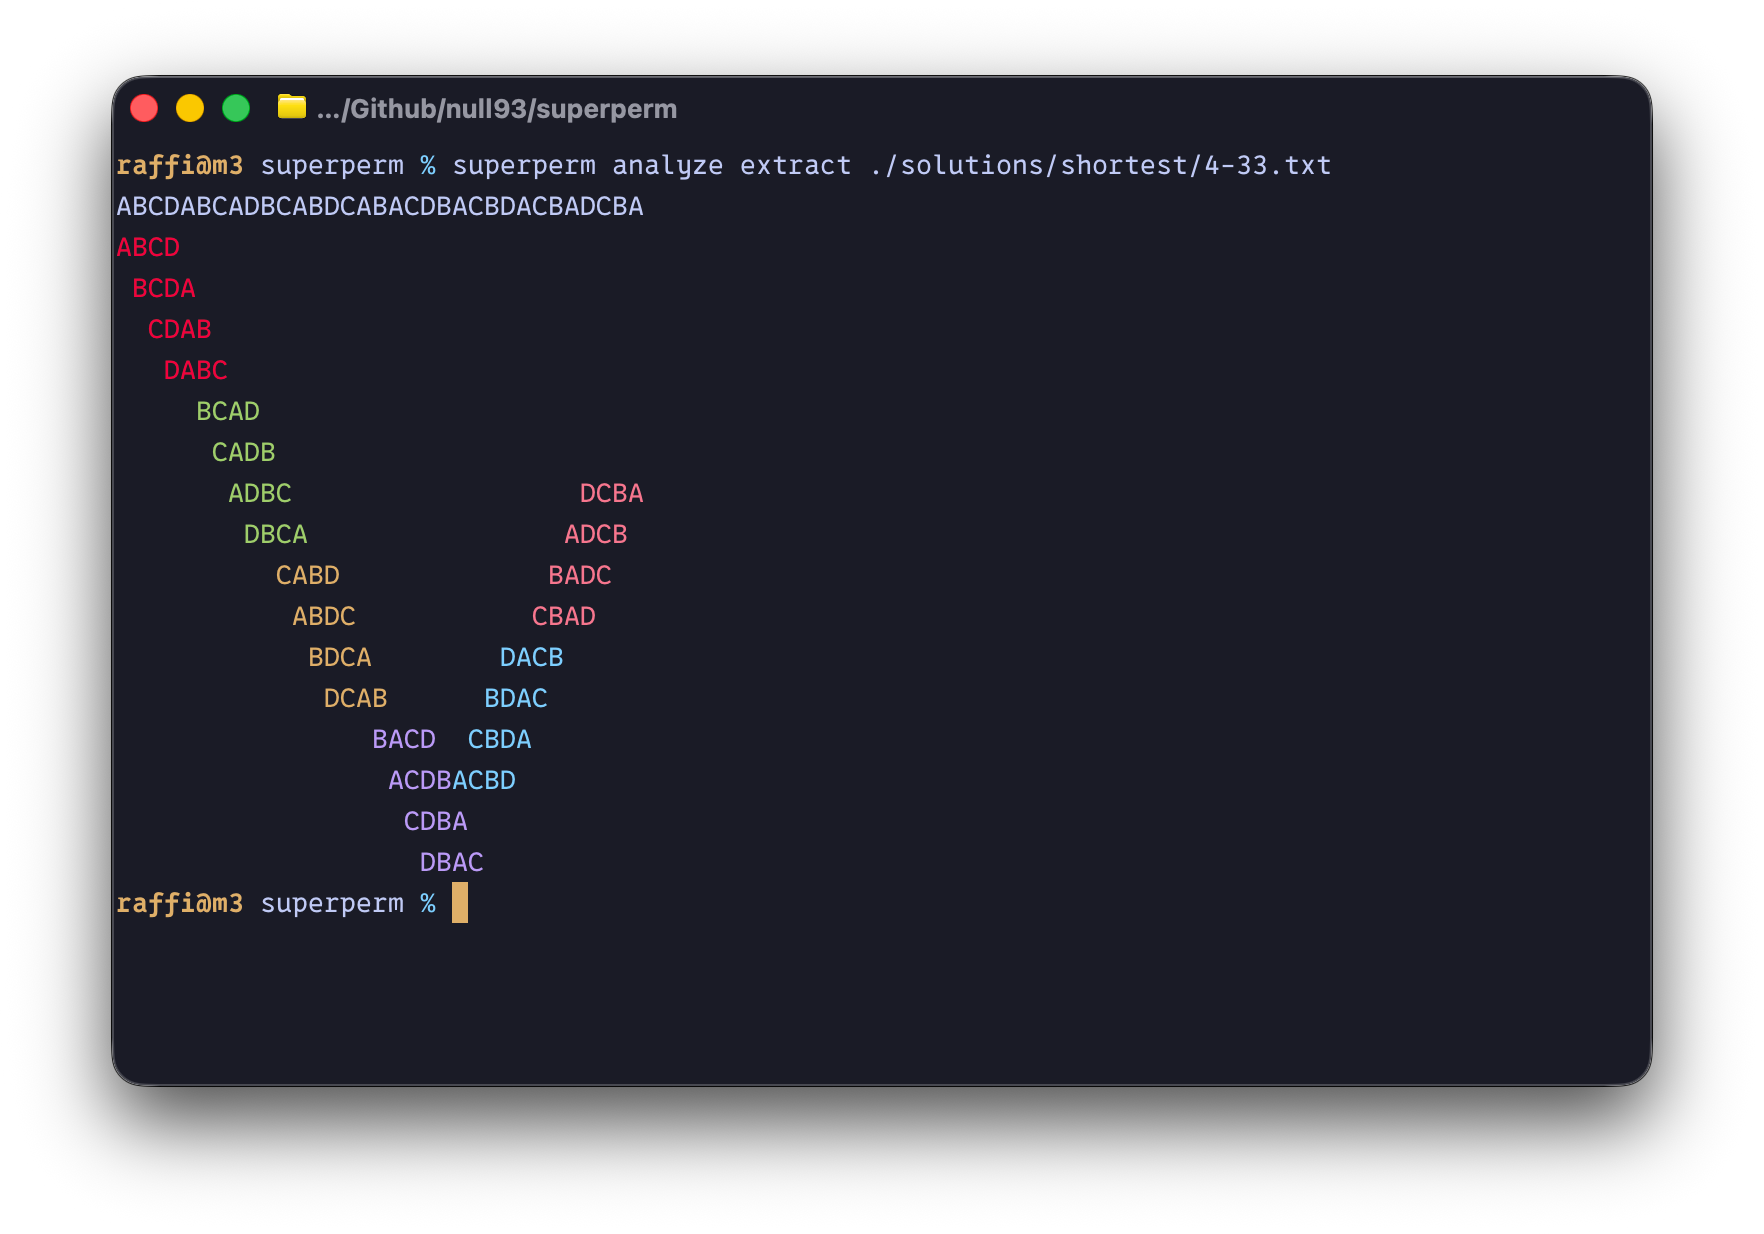
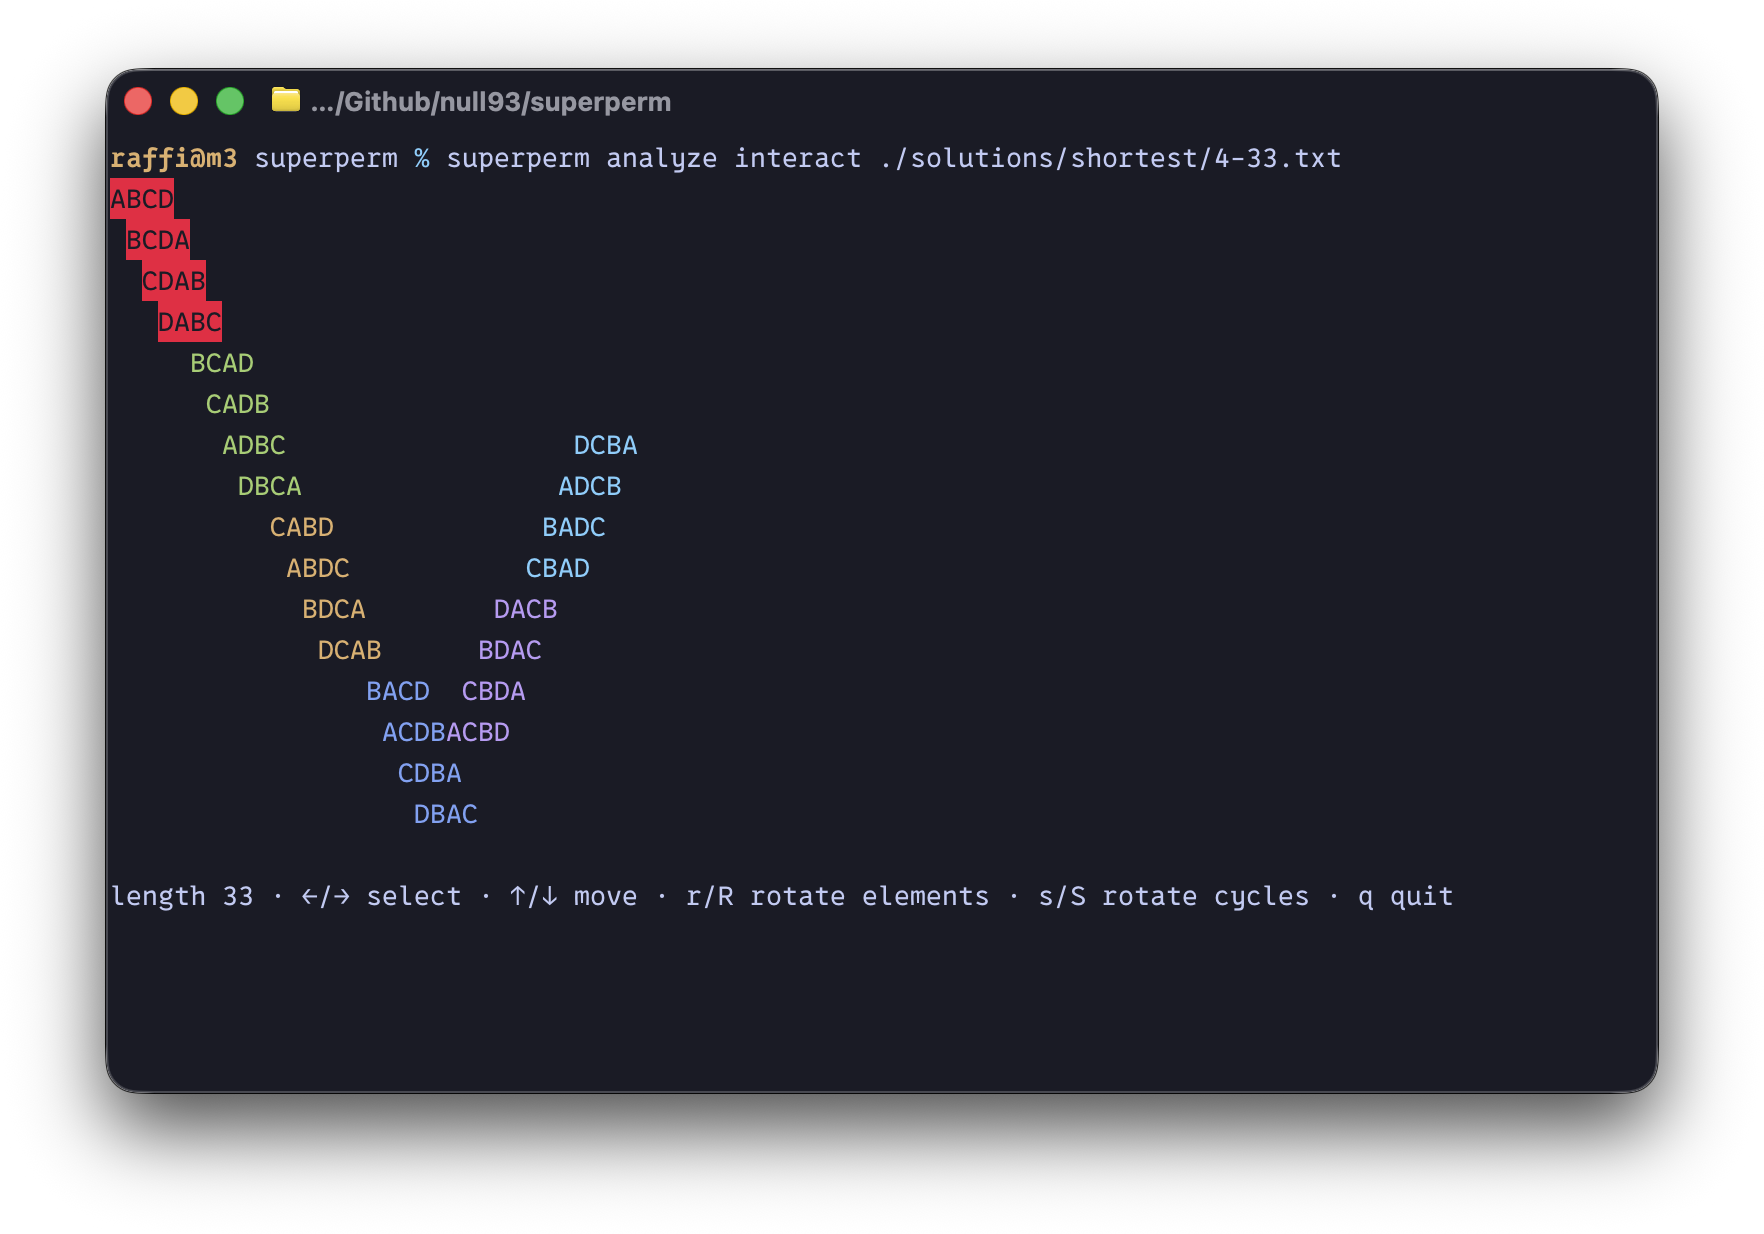
Simplified interact toolbar and validated analyze input
- Interact and extract no longer print the solution above the layout
- Toolbar starts with the length, drops the cycle counter and validity, uses arrow characters and dot separators
- Analyze commands reject files that are not a superpermutation
- Updated screenshot to show the interact command

diff --git a/sdk/interact/interact.go b/sdk/interact/interact.go
@@ -26,7 +26,7 @@ func Run(perms []string, solution string) error {
 	pending := []byte{}
 	for {
 		if len(pending) < 1 {
-			draw(perms, cycles, selectedCycle)
+			draw(cycles, selectedCycle)
 			read, err := os.Stdin.Read(buffer)
 			if err != nil || read < 1 {
 				return nil
@@ -99,19 +99,11 @@ func rotation(clockwise bool) int {
 	return -1
 }
 
-func draw(perms []string, cycles []utils.Cycle, selected int) {
+func draw(cycles []utils.Cycle, selected int) {
 	solution, layout := utils.RenderCycles(cycles, selected)
-	status := "invalid"
-	if utils.IsSuperpermutation(perms, solution) {
-		status = "valid"
-	}
-	lines := []string{
-		fmt.Sprintf("%d", len(solution)),
-		solution,
-	}
-	lines = append(lines, strings.Split(strings.TrimRight(layout, "\n"), "\n")...)
-	lines = append(lines, "", fmt.Sprintf("cycle %d/%d %s | left/right select | up/down move | r/R rotate elements | s/S rotate cycles | q quit",
-		selected+1, len(cycles), status))
+	lines := strings.Split(strings.TrimRight(layout, "\n"), "\n")
+	lines = append(lines, "", fmt.Sprintf("length %d · ←/→ select · ↑/↓ move · r/R rotate elements · s/S rotate cycles · q quit",
+		len(solution)))
 	fmt.Print("\033[H\033[2J")
 	for _, line := range lines {
 		fmt.Print(line + "\r\n")

diff --git a/sdk/utils/solution.go b/sdk/utils/solution.go
@@ -25,6 +25,17 @@ func ReadSolution(path string) (string, string, error) {
 	return solution, alphabet, nil
 }
 
+func ReadSuperpermutation(path string) (string, string, error) {
+	solution, alphabet, err := ReadSolution(path)
+	if err != nil {
+		return "", "", err
+	}
+	if missing := MissingPermutations(alphabet, solution); len(missing) > 0 {
+		return "", "", fmt.Errorf("solution is not a superpermutation, missing %d of %d permutations", len(missing), Factorial(len(alphabet)))
+	}
+	return solution, alphabet, nil
+}
+
 func ExtractAlphabet(input string) string {
 	seen := map[rune]bool{}
 	alphabet := []rune{}

diff --git a/internal/analyze-interact.go b/internal/analyze-interact.go
@@ -15,7 +15,7 @@ var analyzeInteractCmd = &cobra.Command{
 	Aliases: []string{"inter"},
 	Args:    cobra.ExactArgs(1),
 	PreRunE: func(cmd *cobra.Command, args []string) error {
-		_, _, err := utils.ReadSolution(args[0])
+		_, _, err := utils.ReadSuperpermutation(args[0])
 		return err
 	},
 	Run: func(cmd *cobra.Command, args []string) {

diff --git a/internal/analyze-heatmap.go b/internal/analyze-heatmap.go
@@ -12,7 +12,7 @@ var analyzeHeatMapCmd = &cobra.Command{
 	Aliases: []string{"heat"},
 	Args:    cobra.ExactArgs(1),
 	PreRunE: func(cmd *cobra.Command, args []string) error {
-		_, _, err := utils.ReadSolution(args[0])
+		_, _, err := utils.ReadSuperpermutation(args[0])
 		return err
 	},
 	Run: func(cmd *cobra.Command, args []string) {

diff --git a/internal/analyze-position.go b/internal/analyze-position.go
@@ -12,7 +12,7 @@ var analyzePositionCmd = &cobra.Command{
 	Aliases: []string{"pos"},
 	Args:    cobra.ExactArgs(1),
 	PreRunE: func(cmd *cobra.Command, args []string) error {
-		_, _, err := utils.ReadSolution(args[0])
+		_, _, err := utils.ReadSuperpermutation(args[0])
 		return err
 	},
 	Run: func(cmd *cobra.Command, args []string) {

diff --git a/internal/analyze-extract.go b/internal/analyze-extract.go
@@ -12,7 +12,7 @@ var analyzeExtractCmd = &cobra.Command{
 	Aliases: []string{"ext"},
 	Args:    cobra.ExactArgs(1),
 	PreRunE: func(cmd *cobra.Command, args []string) error {
-		_, _, err := utils.ReadSolution(args[0])
+		_, _, err := utils.ReadSuperpermutation(args[0])
 		return err
 	},
 	Run: func(cmd *cobra.Command, args []string) {

diff --git a/sdk/utils/extract.go b/sdk/utils/extract.go
@@ -131,6 +131,5 @@ func RenderRows(rows [][]Extraction, selected int) string {
 }
 
 func PrintExtraction(perms []string, superpermutation string) {
-	fmt.Println(superpermutation)
 	fmt.Print(RenderRows(PackExtractions(Extract(perms, superpermutation)), -1))
 }

diff --git a/README.md b/README.md
@@ -119,7 +119,6 @@ valid superpermutation for n=3 with alphabet ABC and length 9
 ```console
 $ superperm analyze extract --no-color ./solutions/shortest/3-9.txt
 
-ABCABACBA
 ABC
  BCA
   CAB
@@ -151,8 +150,6 @@ A B C A B A C B A
 ```console
 $ superperm analyze interact ./solutions/shortest/3-9.txt
 
-9
-ABCABACBA
 ABC
  BCA
   CAB
@@ -160,7 +157,7 @@ ABC
      ACB
       CBA
 
-cycle 1/2 valid | left/right select | up/down move | r/R rotate elements | s/S rotate cycles | q quit
+length 9 · ←/→ select · ↑/↓ move · r/R rotate elements · s/S rotate cycles · q quit
 ```
 
 </details>
